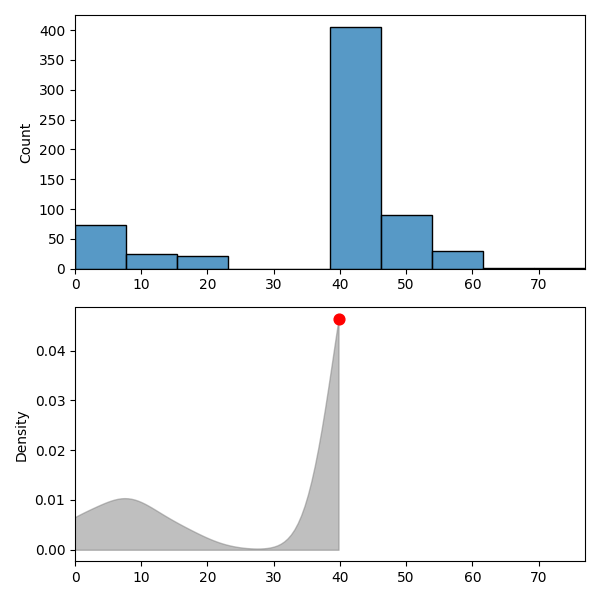
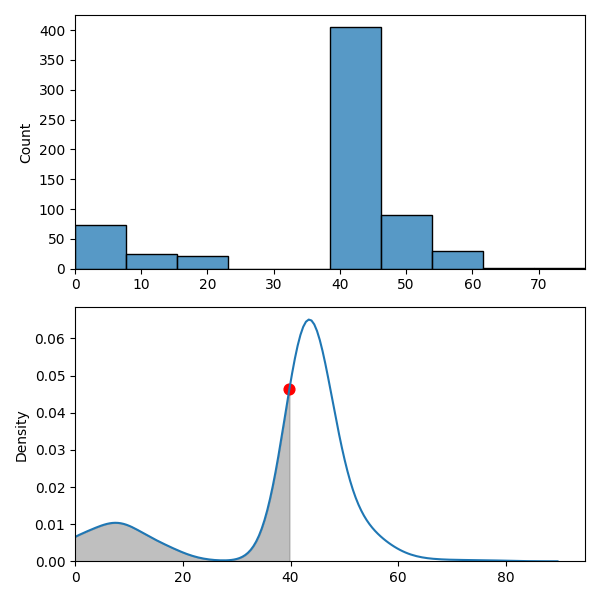
image output fixed, consider decoupling in the future

diff --git a/src/main/java/pique/evaluation/ProbabilityDensityFunctionUtilityFunction.java b/src/main/java/pique/evaluation/ProbabilityDensityFunctionUtilityFunction.java
@@ -87,6 +87,7 @@ public class ProbabilityDensityFunctionUtilityFunction extends UtilityFunction{
                 interp.set("new_data_point", inValue.doubleValue());
 
                 //begin logic for analytics
+                //interp.exec("for t in thresholds:\n\tSystem.out.println(t)");
                 interp.exec("ax = sns.kdeplot(thresholds)");
                 interp.exec("kde_lines = ax.get_lines()[-1]");
                 interp.exec("kde_x,kde_y = kde_lines.get_data()");
@@ -108,12 +109,14 @@ public class ProbabilityDensityFunctionUtilityFunction extends UtilityFunction{
 
                 // second spline with red dot plot
                 interp.exec("plt.subplot(212)");
+                interp.exec("sns.kdeplot(thresholds)");
                 interp.exec("plt.fill_between(xx, yy, where=(xx <= new_data_point), color='gray', alpha=0.5)");
                 interp.exec("plt.scatter(xx[-1], yy[-1], color='red', s=60)");
-                interp.exec("plt.ylabel('Density')");
-                interp.exec("plt.xlim(left=0, right=max(thresholds))");
+                interp.exec("plt.xlim(left=0)");
                 interp.exec("plt.tight_layout()");
                 interp.exec("plt.savefig('testeser.png')");
+
+
 
 
                 //back to java-land, our score value returns as a masked Double object, need to turn into a BigDecimal
